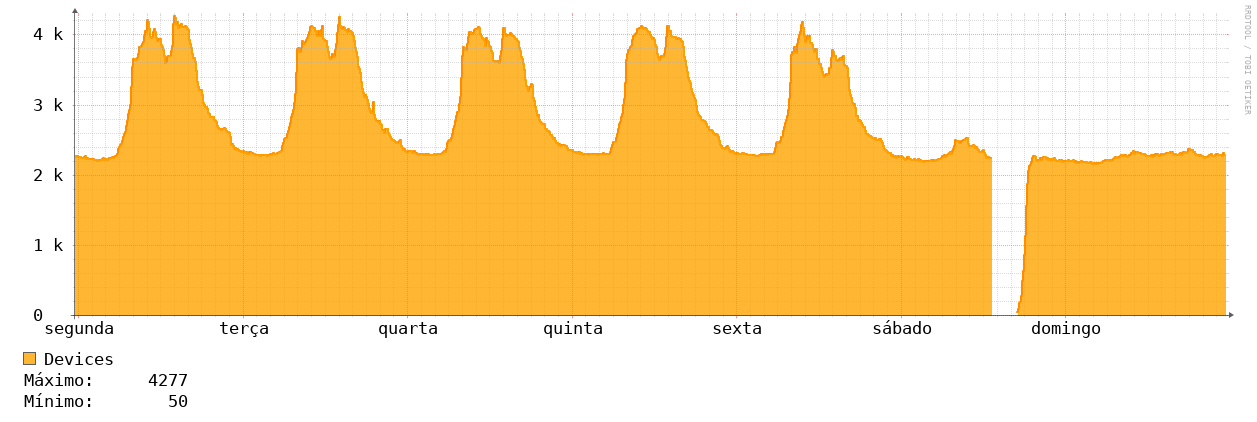
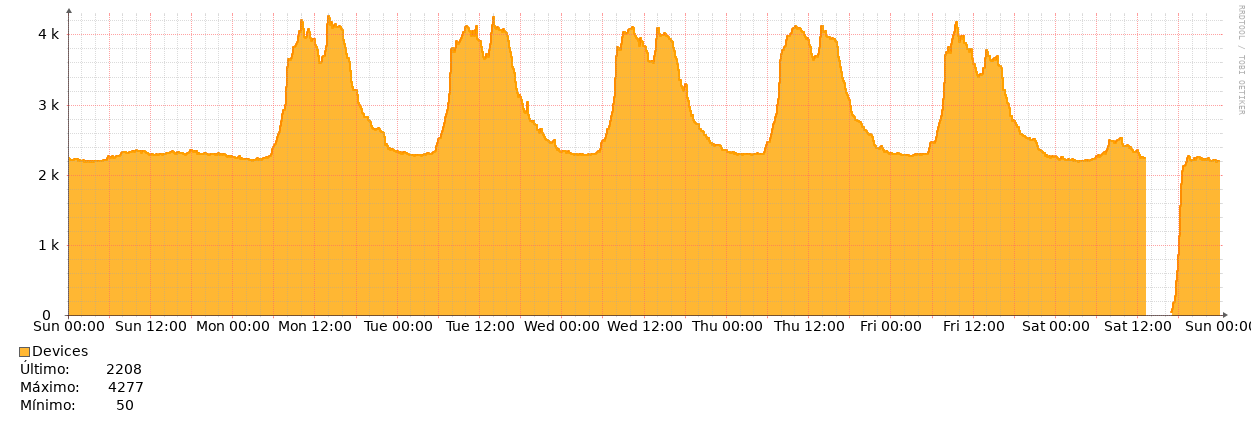
update

Changed region(s): [[0.0, 0.0308, 1.0, 0.9858], [0.9353, 0.2464, 0.9664, 0.2773]]

diff --git a/index.htm b/index.htm
@@ -150,14 +150,14 @@
    <label for="escala" class="form-label">Escala</label>
     <select class="form-select" id="escala" name="escala">
       <option value="0" selected>Automática</option>
-      <option value="1">10</option>
-      <option value="2">100</option>
-      <option value="3">1.000</option>
-      <option value="4">2.000</option>
-      <option value="5">5.000</option>
-      <option value="6">10.000</option>
-      <option value="7">20.000</option>
-      <option value="8">32.000</option>
+      <option value="10">10</option>
+      <option value="100">100</option>
+      <option value="1000">1.000</option>
+      <option value="2000">2.000</option>
+      <option value="5000">5.000</option>
+      <option value="10000">10.000</option>
+      <option value="20000">20.000</option>
+      <option value="32000">32.000</option>
     </select>
 
    <br />
@@ -190,7 +190,7 @@
 <script>
   $(document).ready(function(){
     $('.datepicker').datepicker({
-    format: "dd/mm/yyyy",
+    format: "d-m-yyyy",
     startDate: "01/01/2023",
     endDate: "now();",
     maxViewMode: 2,

diff --git a/rrdtool.php b/rrdtool.php
@@ -6,7 +6,7 @@ A pagina recebe os valores pela URL e gera um gráfico novo que substitui o ante
 Após gerar o gráfico, redireciona para a página de exibição.
 */
 
-$debug = false;
+$debug = 0;
 
 // check IP
 if ($debug) echo $_SERVER['REMOTE_ADDR'] . "<br />";
@@ -26,9 +26,8 @@ $escala = $_GET['escala'];
 $start = $_GET['start'];
 $end = $_GET['end'];
 
-if ($debug) echo "transparencia: " . $transparencia . "<br />";
-
 // converter transparência de 0 a 255 em hexadecimal de dois dígitos, by ChatGPT =D
+if ($debug) echo "transparencia: " . $transparencia . "<br />";
 $transparencia = dechex($transparencia); // converter para hexadecimal
 $transparencia = str_pad($transparencia, 2, '0', STR_PAD_LEFT); // adicionar zero à esquerda, se necessário
 
@@ -42,21 +41,33 @@ if ($debug) echo "escala: " . $escala . "<br />";
 if ($debug) echo "start: " . $start . "<br />";
 if ($debug) echo "end: " . $end . "<br />";
 
+// files
 $file = "/var/www/programas/dev/grafico.png";
 $rrdb = "/var/www/programas/graphs/fdb.rrd";
 if ($debug) echo "file: " . $file . "<br />";
 if ($debug) echo "rrdb: " . $rrdb . "<br />";
 
+// start to unix
+$start = strtotime($start);
+if ($debug) echo "start unix: " . $start . "<br />";
+
+// end to unix
+$end = strtotime($end);
+if ($debug) echo "end unix: " . $end . "<br />";
+
+// escala
+$escala = ($escala == 0) ? "--alt-autoscale" : "--upper-limit=$escala";
+if ($debug) echo "escala: " . $escala . "<br />";
+
 // parâmetros do gráfico
 $graphArgs = array(
- "--start","-24h",
- "--end","now",
+ "--start", $start,
+ "--end", $end+24*60*60,    // caso o usuário escolha como data inicial e final o mesmo dia, incrementa o tmepo de 24h em unixtime.
  "--step=60",
  "--width=1152", "--height=300",
- "--x-grid=MINUTE:10:HOUR:1:HOUR:1:0:%Hh",
  "-Y",
- "--alt-autoscale",
  "--lower-limit=0",
+ $escala,
  "--rigid",
  "--color=BACK#FFF",        // fixo, fundo da área da imagem
  "--color=SHADEA#FFF",      // fixo, borda superior e esquerda
@@ -67,16 +78,16 @@ $graphArgs = array(
  "--color=MGRID$cor_grade_escala",    // personalizado, grade das escalas
  "--color=FRAME#5e5e5e",    // fixo, quadradinho da legenda
  "--color=ARROW#5e5e5e",    // fixo, setinha dos eixos
- "--font=LEGEND:12:'DroidSansMono,DejaVuSansMono'",
- "--font=AXIS:12:'DroidSansMono,DejaVuSansMono'", "--font-render-mode=normal", "--dynamic-labels",
+ "--font=LEGEND:10:'DroidSansMono,DejaVuSansMono'",
+ "--font=AXIS:10:'DroidSansMono,DejaVuSansMono'", "--font-render-mode=normal", "--dynamic-labels",
  "DEF:arraymax=$rrdb:devices:MAX",
  "LINE2:arraymax$cor_linha",   // personalizado, linha dos dados
  "AREA:arraymax$cor_preenchimento$transparencia: Devices\l",   // personalizado, área dos dados + transparência
- "COMMENT:Último\:  ",
+ "COMMENT:Último\:",
  "GPRINT:arraymax:LAST:%6.0lf\l",
  "COMMENT:Máximo\:",
  "GPRINT:arraymax:MAX:%6.0lf\l",
- "COMMENT:Mínimo\: ",
+ "COMMENT:Mínimo\:",
  "GPRINT:arraymax:MIN:%6.0lf\l"
 );
 
